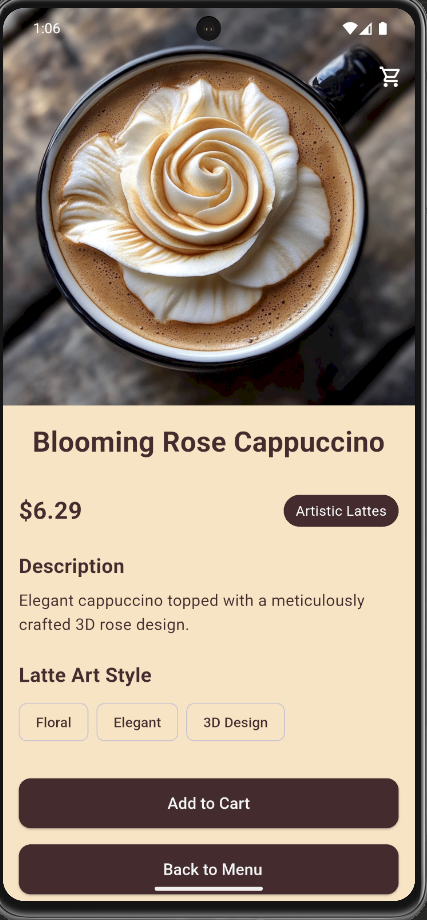
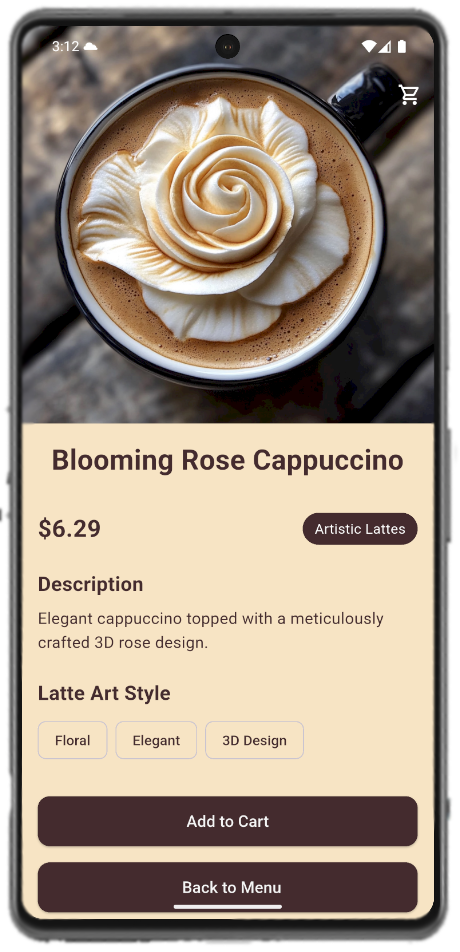
update image

diff --git a/index.html b/index.html
@@ -65,7 +65,7 @@
         
         <!-- Design 1 Content -->
         <div id="design1-content" class="hidden">
-            <h1 class="glass-card">E-Commerce App</h1>
+            <h1 class="glass-card">Latte Haven Coffee</h1>
             <div class="design-container glass-card">
                 <div class="design-showcase">
                     <div class="design-images">

diff --git a/assets/css/style.css b/assets/css/style.css
@@ -212,7 +212,7 @@ body {
 .main-screenshot {
     width: 100%;
     height: auto;
-    max-width: 540px; /* This maintains the ratio when scaled down */
+    max-width: 420px; /* This maintains the ratio when scaled down */
     aspect-ratio: 9/16;
     object-fit: contain; /* This ensures the image isn't cropped */
     border-radius: 10px;
